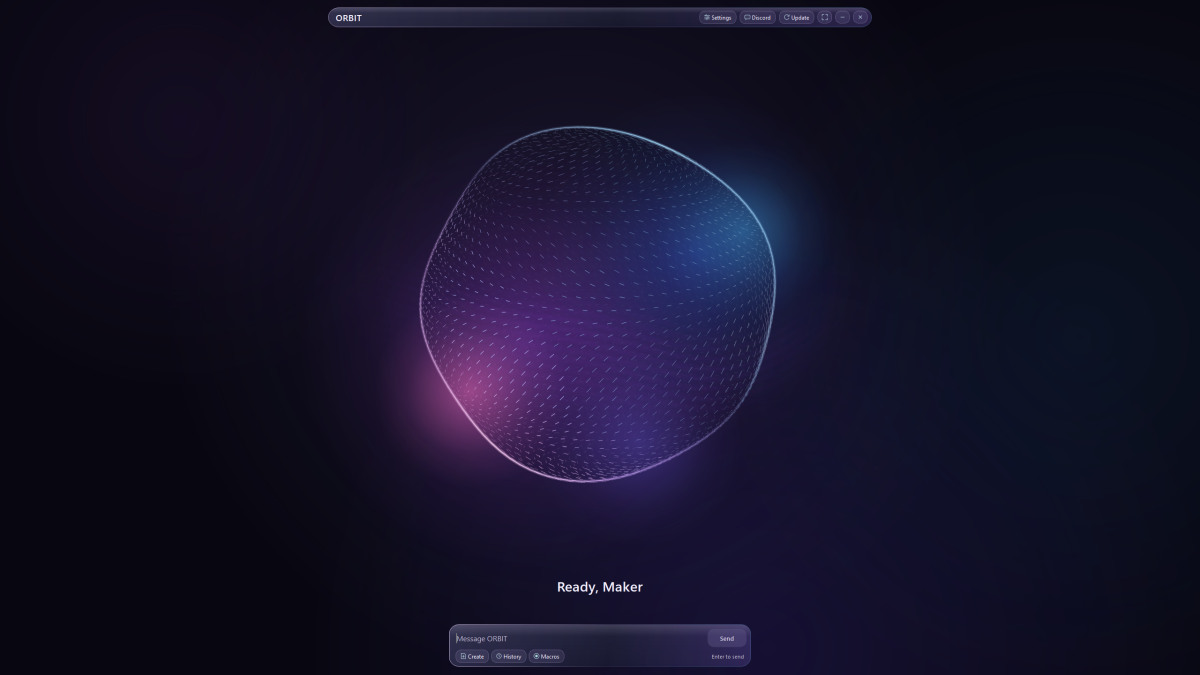
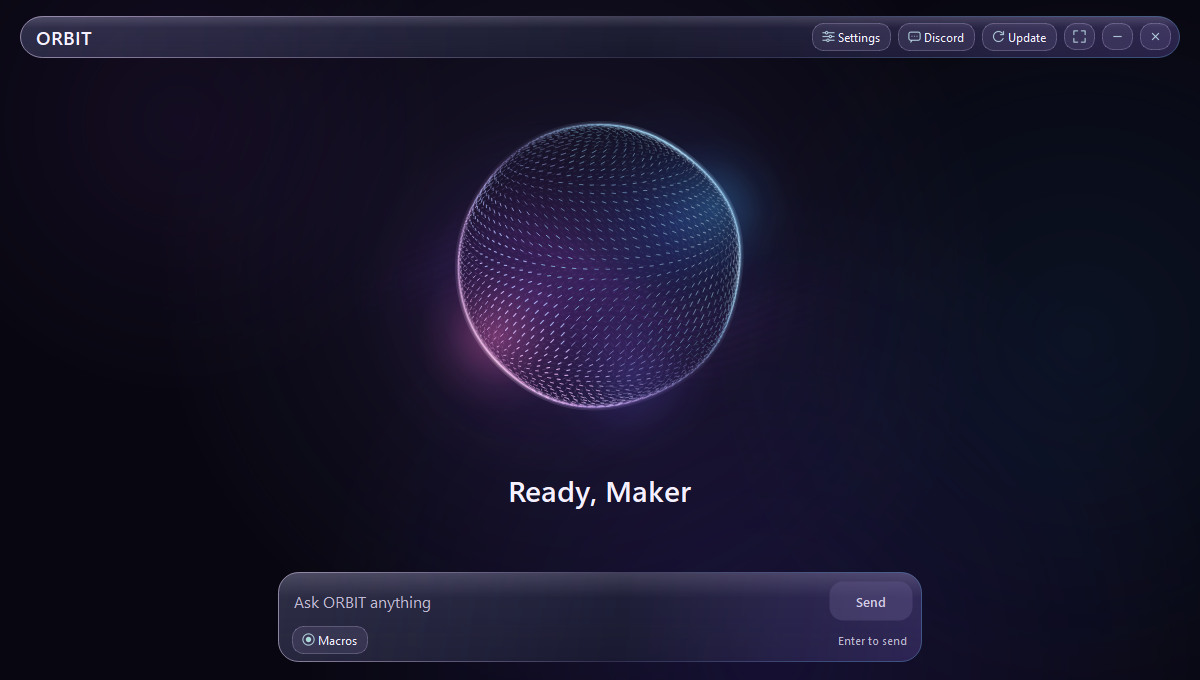
Create files from requests and simplify the composer

Changed region(s): [[0.3083, 0.1556, 0.6783, 0.7467], [0.0, 0.0, 0.9867, 0.0933], [0.2158, 0.84, 0.7708, 0.9956]]

diff --git a/orbit/window.py b/orbit/window.py
@@ -43,7 +43,6 @@ class OrbitWindow(QWidget):
         self.approval_dialog = None
         self.last_reply = ""
         self.last_artifact = None
-        self.create_dialog = None
         self.reply_dialog = None
         self.discord_dialog = None
         self.settings_dialog = None
@@ -90,7 +89,7 @@ class OrbitWindow(QWidget):
         QShortcut(QKeySequence("Ctrl+H"), self, activated=self.show_history)
         QShortcut(QKeySequence("Ctrl+Shift+M"), self, activated=self.show_macros)
         QShortcut(QKeySequence("Ctrl+L"), self, activated=self.entry.setFocus)
-        QShortcut(QKeySequence("Ctrl+N"), self, activated=self.show_create)
+        QShortcut(QKeySequence("Ctrl+R"), self, activated=self.show_reply)
         QShortcut(QKeySequence("F11"), self, activated=self.toggle_fullscreen)
         self.workers = OrbitWorkers(self.settings, self.events, self.meter,
                                     controller if controller is not None else WindowsController(), voice)
@@ -207,24 +206,12 @@ class OrbitWindow(QWidget):
         footer = QHBoxLayout()
         footer.setSpacing(5)
         self.hint = QLabel("Enter to send", objectName="Hint")
-        create = self.header_button("Create", "create")
-        create.setToolTip("Create files, slides and revision material · Ctrl+N")
-        create.clicked.connect(self.show_create)
-        history = self.header_button("History", "history")
-        history.setToolTip("Chat history · Ctrl+H")
-        history.clicked.connect(self.show_history)
         macros = self.header_button("Macros", "macros")
         macros.setToolTip("Record and replay macros · Ctrl+Shift+M")
         macros.clicked.connect(self.show_macros)
-        self.reply = self.header_button("Read reply", "reply")
-        self.reply.clicked.connect(self.show_reply)
-        self.reply.hide()
-        footer.addWidget(create)
-        footer.addWidget(history)
         footer.addWidget(macros)
         footer.addStretch()
         footer.addWidget(self.hint)
-        footer.addWidget(self.reply)
         dock.addLayout(footer)
         self.center_row(root, self.composer)
         self.update_send()
@@ -268,7 +255,7 @@ class OrbitWindow(QWidget):
         active = self.turn is not None
         self.send.setText("Stop" if active else "Send")
         self.send.setEnabled(active or bool(self.entry.text().strip()))
-        self.hint.setText("Esc to stop" if active else "Enter to send")
+        self.hint.setText("Esc to stop" if active else "Ctrl+R · Reply" if self.last_reply else "Enter to send")
 
     def send_or_stop(self):
         if self.turn is not None:
@@ -282,15 +269,15 @@ class OrbitWindow(QWidget):
     def submit_spoken(self, message):
         if self.preferences.listening and all(dialog is None for dialog in
                                               (self.settings_dialog, self.history_dialog, self.macro_dialog,
-                                               self.create_dialog, self.reply_dialog)):
+                                               self.reply_dialog)):
             self.submit_message(message, from_microphone=True)
 
-    def submit_message(self, message, *, from_microphone=False, artifact_request=None):
+    def submit_message(self, message, *, from_microphone=False):
         message = message.strip()
         if self.closing or self.installing_update or self.macro_dialog is not None or self.turn is not None or not message:
             return
         turn = OrbitTurn(next(TURN_IDS), message, preferences=self.preferences,
-                         from_microphone=from_microphone, artifact_request=artifact_request)
+                         from_microphone=from_microphone)
         self.turn = turn
         self.listen_after_stop.stop()
         self.listener.stop()
@@ -301,11 +288,7 @@ class OrbitWindow(QWidget):
         self.last_artifact = None
         if self.reply_dialog is not None:
             self.reply_dialog.close()
-        self.reply.hide()
-        if artifact_request is not None:
-            self.set_state("Creating", "Drafting your file locally", "thinking")
-        else:
-            self.set_state("Thinking", "Processing your request locally", "thinking")
+        self.set_state("Thinking", "Processing your request locally", "thinking")
         self.update_send()
         self.workers.submit(turn)
 
@@ -408,8 +391,6 @@ class OrbitWindow(QWidget):
         self.meter.turn_id = 0
         self.last_reply = turn.answer
         self.last_artifact = turn.artifact
-        self.reply.setText("Review file" if self.last_artifact is not None else "Read reply")
-        self.reply.setVisible(bool(self.last_reply) or self.last_artifact is not None)
         self.set_state("Ready, Maker", turn.notice or self.ready_detail())
         self.update_send()
         self.entry.setFocus()
@@ -458,7 +439,7 @@ class OrbitWindow(QWidget):
     def resume_listener(self):
         if (self.preferences.listening and not self.closing and self.turn is None
                 and all(dialog is None for dialog in (self.settings_dialog, self.history_dialog, self.macro_dialog,
-                                                       self.create_dialog, self.reply_dialog))
+                                                       self.reply_dialog))
                 and QApplication.platformName() == "windows"):
             self.listener.start(self.preferences.name)
 
@@ -467,7 +448,8 @@ class OrbitWindow(QWidget):
         self.setWindowTitle(name)
         self.update_brand()
         self.entry.setAccessibleName(f"Message to {name}")
-        self.entry.setPlaceholderText(f"Message {name}")
+        self.entry.setPlaceholderText(f"Ask {name} anything")
+        self.entry.setToolTip("Ask for a file or reply · Ctrl+R to read the latest reply · Ctrl+H for history")
         self.visual.set_motion_enabled(self.preferences.motion)
         self.notices.pop("microphone", None)
         if self.turn is None:
@@ -488,31 +470,6 @@ class OrbitWindow(QWidget):
                 if tool.text() != text:
                     tool.setText(text)
                     tool.setAccessibleName(label)
-
-    def show_create(self):
-        if self.create_dialog is not None:
-            self.create_dialog.raise_()
-            return
-        if self.turn is not None or self.macro_dialog is not None or self.installing_update:
-            QMessageBox.information(self, "Create with ORBIT", "Finish the current task before starting a new draft.")
-            return
-        from .create_dialog import CreateDialog
-
-        self.listener.stop()
-        dialog = CreateDialog(self)
-        self.create_dialog = dialog
-        dialog.setAttribute(Qt.WidgetAttribute.WA_DeleteOnClose)
-
-        def closed(result):
-            self.create_dialog = None
-            if result == QDialog.DialogCode.Accepted:
-                self.submit_message(dialog.request.prompt, artifact_request=dialog.request)
-            else:
-                self.resume_listener()
-
-        dialog.finished.connect(closed)
-        dialog.open()
-        apply_window_frame(dialog)
 
     def build_update_banner(self):
         banner = QFrame(objectName="UpdateBanner")
@@ -596,7 +553,7 @@ class OrbitWindow(QWidget):
         if self.macro_dialog is not None:
             QMessageBox.information(self, "ORBIT update", "Close the macro recorder before updating.")
             return
-        if self.create_dialog is not None or (self.reply_dialog is not None and self.last_artifact is not None):
+        if self.reply_dialog is not None and self.last_artifact is not None:
             QMessageBox.information(self, "ORBIT update", "Finish reviewing or saving your draft before updating.")
             return
         if self.turn is not None:

diff --git a/orbit/create_dialog.py b/orbit/create_dialog.py
@@ -1,99 +1,11 @@
-"""Compose a local file request and review the generated output before saving."""
+"""Review the generated output before saving."""
 
 from pathlib import Path
 
 from PySide6.QtCore import QDir, Qt
-from PySide6.QtWidgets import (
-    QComboBox, QDialog, QDialogButtonBox, QFileDialog, QFormLayout, QHBoxLayout, QLabel,
-    QPlainTextEdit, QPushButton, QVBoxLayout,
-)
+from PySide6.QtWidgets import QDialog, QDialogButtonBox, QFileDialog, QLabel, QPlainTextEdit, QVBoxLayout
 
-from .artifacts import ARTIFACT_KINDS, SOURCE_SUFFIXES, ArtifactError, ArtifactRequest, load_source, save_artifact
-
-
-class CreateDialog(QDialog):
-    def __init__(self, parent=None, kind=None, prompt=""):
-        super().__init__(parent)
-        self.setWindowTitle("Create with ORBIT")
-        self.source = ""
-        layout = QVBoxLayout(self)
-        layout.setContentsMargins(22, 18, 22, 18)
-        layout.setSpacing(11)
-        layout.addWidget(QLabel("Create with ORBIT", objectName="DialogTitle"))
-        form = QFormLayout()
-        self.kind = QComboBox()
-        for value, label in ARTIFACT_KINDS.items():
-            self.kind.addItem(label, value)
-        if kind is not None:
-            self.kind.setCurrentIndex(self.kind.findData(kind))
-        form.addRow("Format", self.kind)
-        self.prompt = QPlainTextEdit(prompt)
-        self.prompt.setPlaceholderText("Describe what to make, who it is for, and what to include.")
-        self.prompt.setMinimumHeight(132)
-        form.addRow("Instructions", self.prompt)
-        layout.addLayout(form)
-
-        source_row = QHBoxLayout()
-        attach = QPushButton("Attach notes")
-        attach.clicked.connect(self.attach_source)
-        self.source_name = QLabel("Optional", objectName="FormHint")
-        self.source_name.setTextFormat(Qt.TextFormat.PlainText)
-        self.source_name.setWordWrap(True)
-        self.remove = QPushButton("Remove")
-        self.remove.clicked.connect(self.clear_source)
-        self.remove.hide()
-        source_row.addWidget(attach)
-        source_row.addWidget(self.source_name, 1)
-        source_row.addWidget(self.remove)
-        layout.addLayout(source_row)
-        self.error = QLabel(objectName="FormHint")
-        self.error.setTextFormat(Qt.TextFormat.PlainText)
-        self.error.setWordWrap(True)
-        layout.addWidget(self.error)
-        buttons = QDialogButtonBox(QDialogButtonBox.StandardButton.Cancel)
-        create = buttons.addButton("Generate draft", QDialogButtonBox.ButtonRole.AcceptRole)
-        create.clicked.connect(self.accept_request)
-        buttons.rejected.connect(self.reject)
-        layout.addWidget(buttons)
-        self.resize(560, 345)
-
-    def attach_source(self):
-        patterns = " ".join(f"*{suffix}" for suffix in SOURCE_SUFFIXES)
-        filename, _ = QFileDialog.getOpenFileName(
-            self, "Attach local notes", "", f"Supported notes ({patterns})"
-        )
-        if not filename:
-            return
-        try:
-            text = load_source(Path(filename))
-        except (OSError, ValueError, ArtifactError) as exc:
-            self.error.setText(str(exc))
-            return
-        self.source = text
-        self.source_name.setText(Path(filename).name)
-        self.remove.show()
-        self.error.clear()
-
-    def clear_source(self):
-        self.source = ""
-        self.source_name.setText("Optional")
-        self.remove.hide()
-        self.error.clear()
-
-    def accept_request(self):
-        prompt = self.prompt.toPlainText().strip()
-        if not prompt:
-            self.error.setText("Describe what you want ORBIT to make.")
-            return
-        if len(prompt) > 2000:
-            self.error.setText("Keep instructions within 2,000 characters. Attach longer source notes separately.")
-            return
-        try:
-            self.request = ArtifactRequest(self.kind.currentData(), prompt, self.source)
-        except (ValueError, ArtifactError) as exc:
-            self.error.setText(str(exc))
-            return
-        self.accept()
+from .artifacts import ARTIFACT_KINDS, ArtifactError, save_artifact
 
 
 class ArtifactReview(QDialog):

diff --git a/tests/test_window.py b/tests/test_window.py
@@ -107,11 +107,7 @@ class WindowTests(unittest.TestCase):
         output = Path(self.scratch.name) / "draft.md"
         draft = Artifact("study_guide", "Moon craters", body="Review the effect of impacts.")
         with patch("orbit.conversation.generate_artifact", return_value=draft) as generate:
-            self.win.show_create()
-            dialog = self.win.create_dialog
-            dialog.kind.setCurrentIndex(dialog.kind.findData("study_guide"))
-            dialog.prompt.setPlainText("Make a guide about Moon craters.")
-            dialog.accept_request()
+            self.send("Make revision notes about Moon craters.")
             self.until(lambda: self.win.last_artifact is draft and self.win.reply_dialog is not None)
             self.assertEqual(generate.call_args.args[1].kind, "study_guide")
         self.assertFalse(output.exists())
@@ -193,7 +189,8 @@ class WindowTests(unittest.TestCase):
         self.send("Who made you?")
         self.until(lambda: self.win.turn is None)
         self.assertIn("Liltaz6xx created ORBIT", self.win.last_reply)
-        self.assertTrue(self.win.reply.isVisible())
+        self.win.show_reply()
+        self.assertIsNotNone(self.win.reply_dialog)
         self.assertIn("Speech could not play", self.win.detail.text())
 
     def test_custom_name_and_macro_approval(self):

diff --git a/orbit/models.py b/orbit/models.py
@@ -11,7 +11,7 @@ from PySide6.QtCore import QObject, Signal
 from .preferences import Preferences
 
 if TYPE_CHECKING:
-    from .artifacts import Artifact, ArtifactRequest
+    from .artifacts import Artifact
 
 
 class OrbitEvents(QObject):
@@ -99,7 +99,6 @@ class OrbitTurn:
     context_revision: int | None = None
     preferences: Preferences = field(default_factory=Preferences)
     from_microphone: bool = False
-    artifact_request: "ArtifactRequest | None" = None
     artifact: "Artifact | None" = None
 
     def speak(self, phrase):

diff --git a/orbit/artifacts.py b/orbit/artifacts.py
@@ -78,7 +78,7 @@ REQUEST_KINDS = (
     ("flashcards", r"flash\s*cards?"),
     ("quiz", r"(?:practice\s+)?quiz|practice test|revision questions"),
     ("markdown", r"markdown(?: (?:document|file))?|[^\s]+\.md\b"),
-    ("document", r"text file|plain text|document|notes file|file|[^\s]+\.txt\b"),
+    ("document", r"text file|plain text|document|notes(?: file)?|file|[^\s]+\.txt\b"),
 )
 NUMBER_WORDS = {name: number for number, name in enumerate(
     "one two three four five six seven eight nine ten eleven twelve".split(), 1

diff --git a/orbit/conversation.py b/orbit/conversation.py
@@ -29,8 +29,6 @@ class Conversation:
             self.events.subsystem.emit("memory", "Memory unavailable. Check the database path and permissions.")
 
     def answer(self, turn):
-        if turn.artifact_request is not None:
-            return self.prepare_artifact(turn, turn.artifact_request)
         message = turn.message
         name = turn.preferences.name
         if re.fullmatch(r"(?:what(?: is|'s) your name|who are you)[?.! ]*", message, re.I):

diff --git a/orbit/__init__.py b/orbit/__init__.py
@@ -1,3 +1,3 @@
 """ORBIT personal desktop assistant."""
 
-__version__ = "0.8.0"
+__version__ = "0.8.1"

diff --git a/README.md b/README.md
@@ -10,23 +10,23 @@ Created by [Liltaz6xx](https://github.com/Liltaz6xx). ORBIT calls the operator o
 
 1. Download the **Windows x64 Setup EXE** and its SHA-256 checksum. The installer is unsigned, so Windows SmartScreen may display a warning. [GitHub Releases](https://github.com/Liltaz6xx/orbit-desktop/releases)
 2. Run Setup. It installs for your Windows account in %LOCALAPPDATA%\Programs\ORBIT Desktop and sets up Python, Ollama, Qwen2.5 1.5B, and the Kokoro voice. A fresh setup needs internet and downloads about 3 GB. Setup reuses existing dependencies and verified voice files. [Ollama for Windows](https://docs.ollama.com/windows) · [Default model](https://ollama.com/library/qwen2.5:1.5b)
-3. Open **ORBIT Desktop** from the Start menu or the optional desktop shortcut, which is checked on a fresh install. Press **Enter** to send, **Esc** to stop, or **Read reply** to open the latest answer.
+3. Open **ORBIT Desktop** from the Start menu or the optional desktop shortcut, which is checked on a fresh install. Press **Enter** to send, **Esc** to stop, or **Ctrl+R** to open the latest answer.
 
 For updates, choose **Update** in the installed app or run the newer Setup EXE. Setup finds the existing installation and replaces its program files. It remembers the desktop shortcut choice. Settings, memories, recordings and downloaded voice files live in the separate ORBIT Desktop profile and survive updates and uninstall.
 
 Setup preserves any custom Ollama address or model selected in your profile. Uninstalling ORBIT leaves Ollama and its model downloads available to other apps.
 
-## Fullscreen and Create
+## Fullscreen and file creation
 
 ORBIT starts in borderless fullscreen. Press **F11** to switch between fullscreen and windowed mode. The orb rotates when idle, grows while thinking, and responds to speech. The **Motion** setting pauses the animation.
 
-Choose **Create** or press **Ctrl+N** to generate a Word document, PowerPoint deck, plain-text or Markdown file, study guide, flashcards or quiz. Add a description and optionally attach local notes. ORBIT uses the local model and presents a draft before saving. Use **Save as…** to choose a new file path. Existing files are protected from replacement.
+Ask for a Word document, PowerPoint deck, plain-text or Markdown file, study guide, flashcards or quiz in the main prompt or by voice. Include any source notes in the request. ORBIT uses the local model and presents a draft before saving. Use **Save as…** to choose a new file path. Existing files are protected from replacement.
 
 ORBIT checks GitHub on startup and while the app is open. An update banner appears when a newer build is available.
 
 ## Chat history and recorded macros
 
-Open **History** or press **Ctrl+H** to search saved exchanges. You can copy a selected exchange or clear the conversation archive. Clearing history keeps separately saved facts.
+Press **Ctrl+H** to search saved exchanges. You can copy a selected exchange or clear the conversation archive. Clearing history keeps separately saved facts.
 
 Open **Macros** or press **Ctrl+Shift+M**, choose **New recording**, then switch to the app you want to record during the countdown. Perform your steps and press **F8** to stop. Name and save the recording. To replay it, choose it from the list, confirm **Replay**, and switch to the target app before the countdown ends. Press **F8** to stop replay.
 
@@ -69,7 +69,7 @@ timeout = 180
 max_tokens = 220
 ~~~
 
-The source ZIP includes **Check_ORBIT.bat** to verify packages, artwork, audio output, SQLite and the selected local model. To check where Ollama loaded the language model, run `ollama ps` while a model is loaded and look at the **PROCESSOR** column. Kokoro speech uses its own inference engine. If both voice engines fail, open **Read reply** to see the answer. [Ollama processor reporting](https://docs.ollama.com/faq#how-can-i-tell-if-my-model-was-loaded-onto-the-gpu)
+The source ZIP includes **Check_ORBIT.bat** to verify packages, artwork, audio output, SQLite and the selected local model. To check where Ollama loaded the language model, run `ollama ps` while a model is loaded and look at the **PROCESSOR** column. Kokoro speech uses its own inference engine. If both voice engines fail, press **Ctrl+R** to read the answer. [Ollama processor reporting](https://docs.ollama.com/faq#how-can-i-tell-if-my-model-was-loaded-onto-the-gpu)
 
 ## Development
 

diff --git a/RELEASE_NOTES.md b/RELEASE_NOTES.md
@@ -1,8 +1,8 @@
-# ORBIT Desktop 0.8.0
+# ORBIT Desktop 0.8.1
 
 ORBIT opens in borderless fullscreen with translucent controls and a live 3D orb. The orb rotates when idle, expands while thinking, and reacts to speech. Press **F11** to switch to a normal window. Turn off **Motion** in **Settings** to pause the ambient animation.
 
-Choose **Create** to draft a PowerPoint presentation, Word document, text file, Markdown document, study guide, flashcards or quiz. Attach local notes if you want ORBIT to use them. Review the output, then choose **Save as…** to write it to a new file. You can also ask directly, for example “Create a 5-slide PowerPoint about orbital mechanics.”
+Ask for files in the main prompt or by voice. Try “Create a 5-slide PowerPoint about orbital mechanics” or “Write revision notes about photosynthesis.” ORBIT opens the draft for review and saving. **Macros** is the only extra button beside the prompt. Press **Ctrl+H** for history or **Ctrl+R** to open the most recent reply or draft.
 
 ORBIT checks for updates on startup and shows a banner whenever a newer build is available. Click the banner to begin updating.
 

diff --git a/CHANGELOG.md b/CHANGELOG.md
@@ -1,5 +1,9 @@
 # ORBIT changelog
 
+## 0.8.1
+
+- Create files directly from typed or spoken requests and keep Macros as the only extra composer button.
+
 ## 0.8.0
 
 - Open in borderless fullscreen with glass controls and a live, animated 3D orb.
